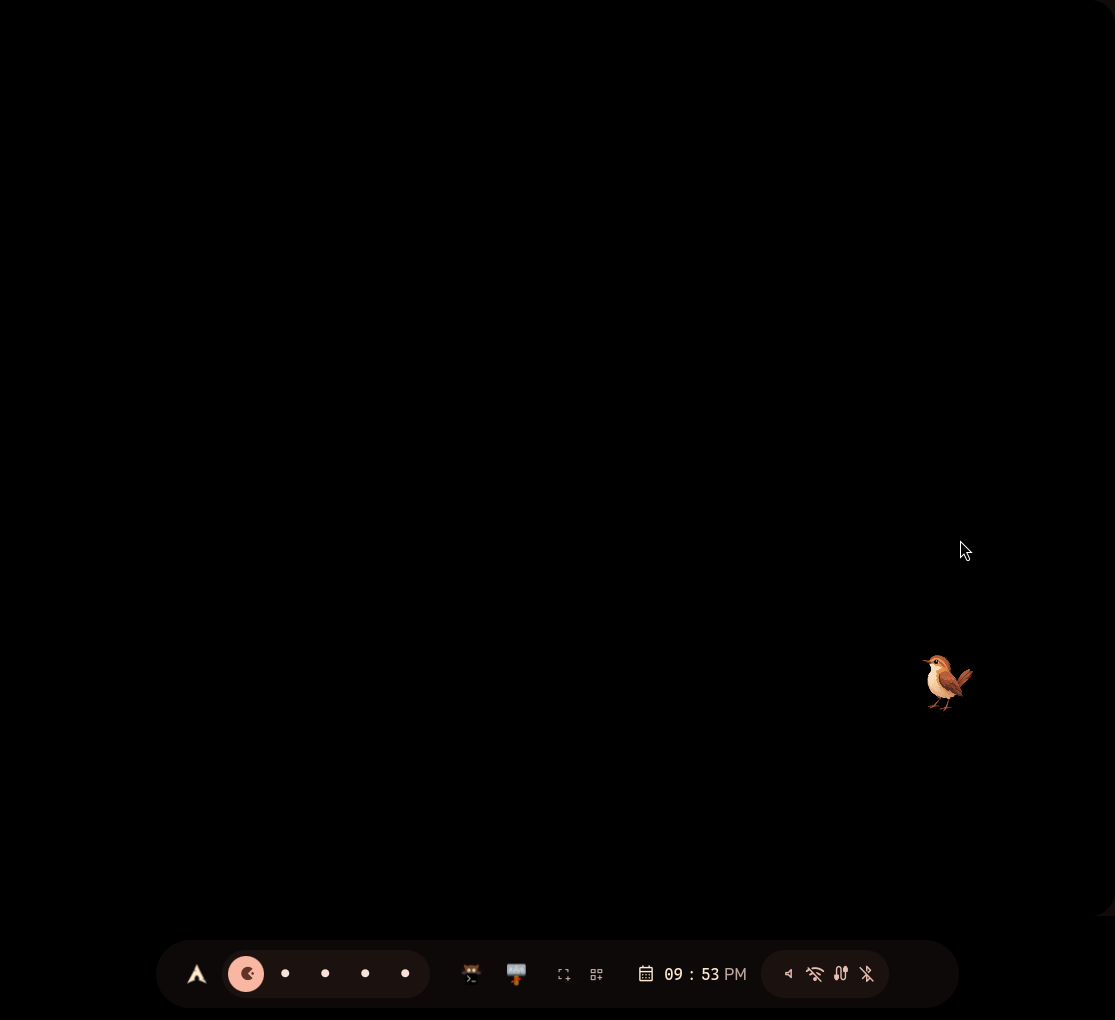
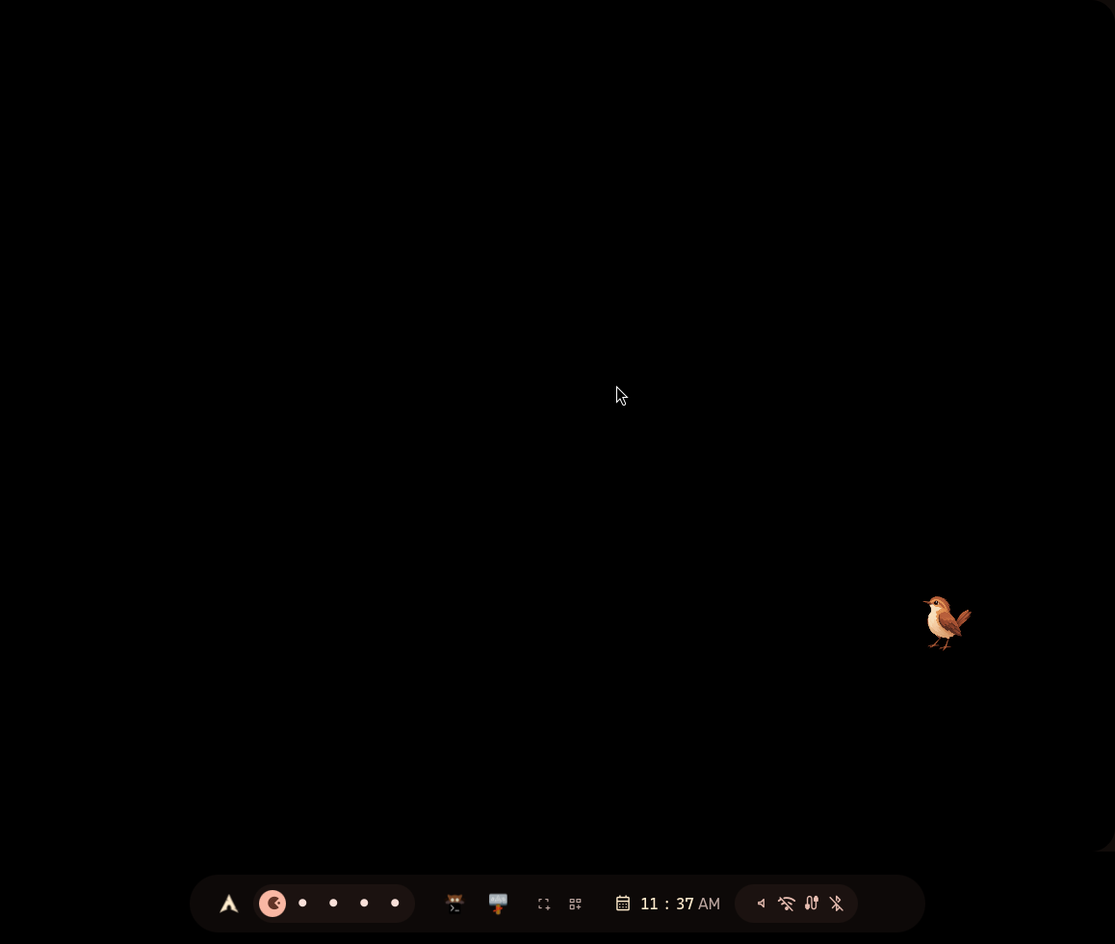
feat(presets): slimmer bars outside the Hornero originals
Non-reference presets felt too thick next to the Hornero rails: slim
v1 innerWidth 40 -> 32 (dock 48 -> 40, incl. its v2 thickness) while
hornero-left/right and the factory default keep the original 40.
Cockpit already shipped a 32 bottom bar, proving the size legible;
verified dock/attached/floating/islands/cockpit in nested Hyprland
with no clipped content. Gallery refreshed (single column; captures
scaled to 1115px wide).

diff --git a/docs/LAYOUTS.md b/docs/LAYOUTS.md
@@ -134,19 +134,15 @@ preview (primary bar only) keep working. `bar.style` must stay a v1 style
 
 ## Gallery
 
-Captured in nested Hyprland at 1115x1020 (PR #88 evidence):
+Captured in nested Hyprland with the welcome window dismissed (PR #88
+evidence; cockpit/islands/cozy-minimal/dock-bottom refreshed for the slim
+bars, scaled to 1115px wide):
 
-| Cockpit | Islands |
-|---|---|
-| ![Cockpit: inset top bar + attached bottom bar](assets/layouts/cockpit.png) | ![Islands: three floating pills](assets/layouts/islands.png) |
-
-| Cozy Minimal | Dock Bottom |
-|---|---|
-| ![Cozy Minimal: floating top ribbon](assets/layouts/cozy-minimal.png) | ![Dock Bottom: bottom dock with pinned apps](assets/layouts/dock-bottom.png) |
-
-| Hornero Left (v1) |
-|---|
-| ![Hornero Left: legacy single-bar rail through the v2 runtime](assets/layouts/v1-hornero-left.png) |
+- ![Cockpit: inset top bar + attached bottom bar](assets/layouts/cockpit.png)
+- ![Islands: three floating pills](assets/layouts/islands.png)
+- ![Cozy Minimal: floating top ribbon](assets/layouts/cozy-minimal.png)
+- ![Dock Bottom: bottom dock with pinned apps](assets/layouts/dock-bottom.png)
+- ![Hornero Left: legacy single-bar rail through the v2 runtime](assets/layouts/v1-hornero-left.png)
 
 ## Persistence
 
